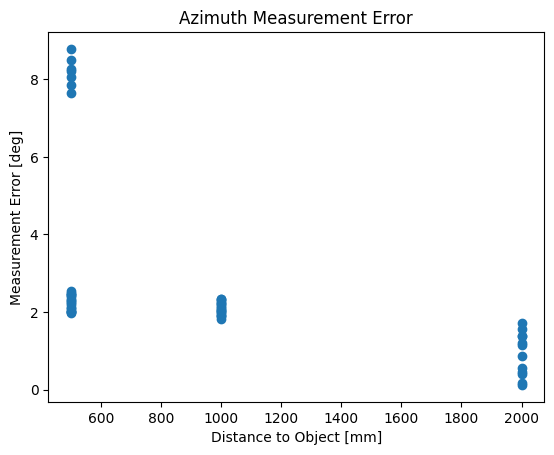
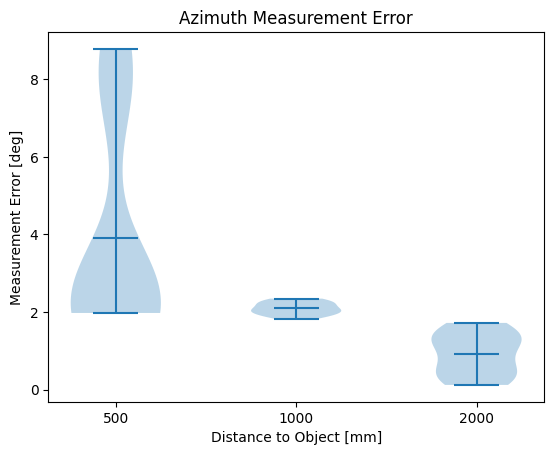
Change scatter plots to violin plots

diff --git a/sections/results/software.tex b/sections/results/software.tex
@@ -49,12 +49,15 @@ Section \ref{sec:methods:analysis-success-rate}.
 
 Data for each error metric are shown in the following tables: distance errors in table \ref{tab:dist-error}, azimuth errors 
 in table \ref{tab:azim-error}, and elevation errors in table \ref{tab:elev-error}.
-Scatter plots showing the distributions of errors for all samples are also shown: distance errors in Fig. \ref{fig:dist-error}, azimuth errors 
+Violin plots showing the distributions of errors for all samples are also shown: distance errors in Fig. \ref{fig:dist-error}, azimuth errors 
 in Fig. \ref{fig:azim-error}, and elevation errors in Fig. \ref{fig:elev-error}.
 
 Since only the valid samples were used to calculate detection errors, the sample count used for error calculations is given in
 table \ref{tab:error-sample-counts}. This is calculated as the sum of samples that 
 were marked valid at each distance for all backgrounds, using the success rates in table \ref{tab:success-rates-dist}.
+
+All error values are signed, rather than absolute values, to retain visibility to any bias towards under or over estimating
+values.
 
 
 \begin{table}[H]
